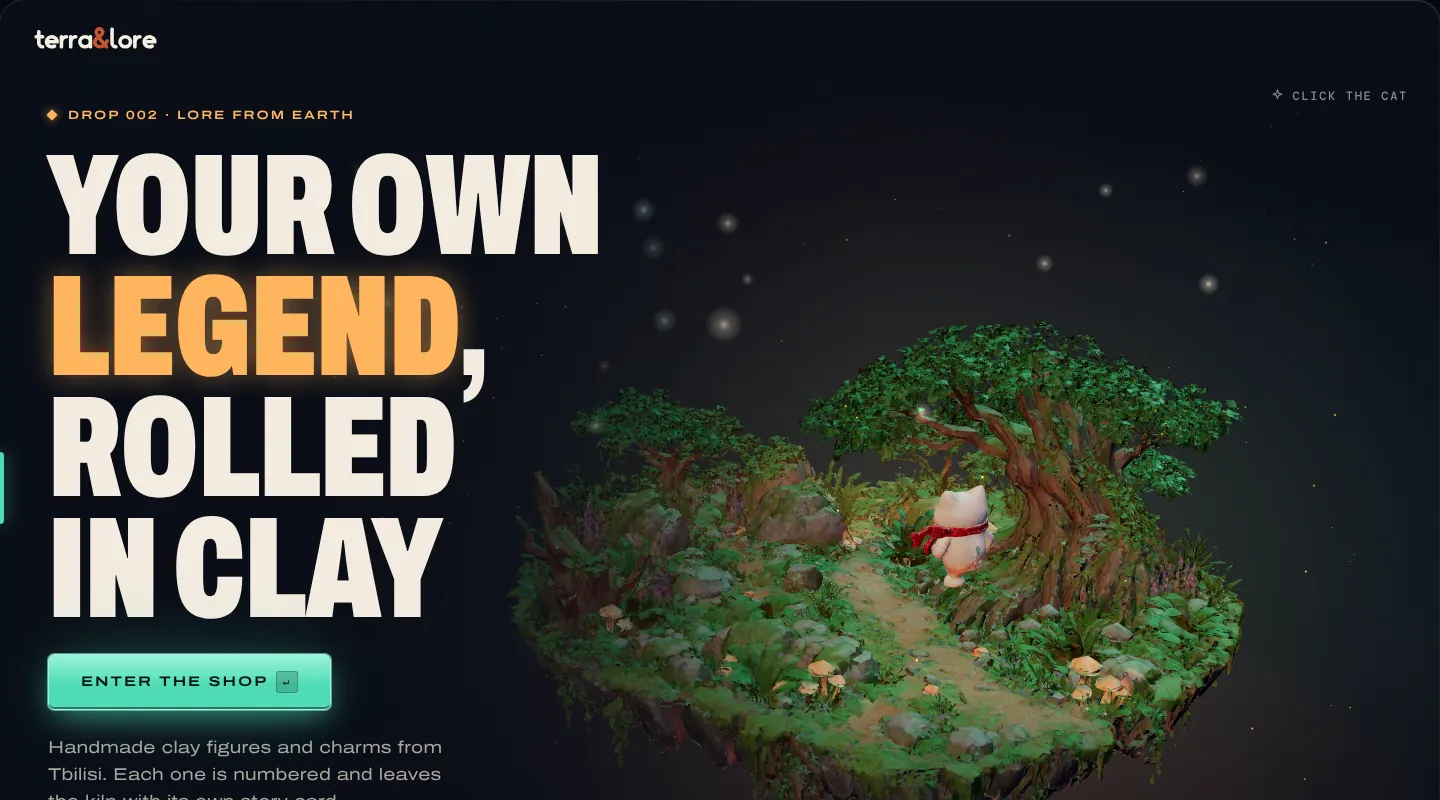
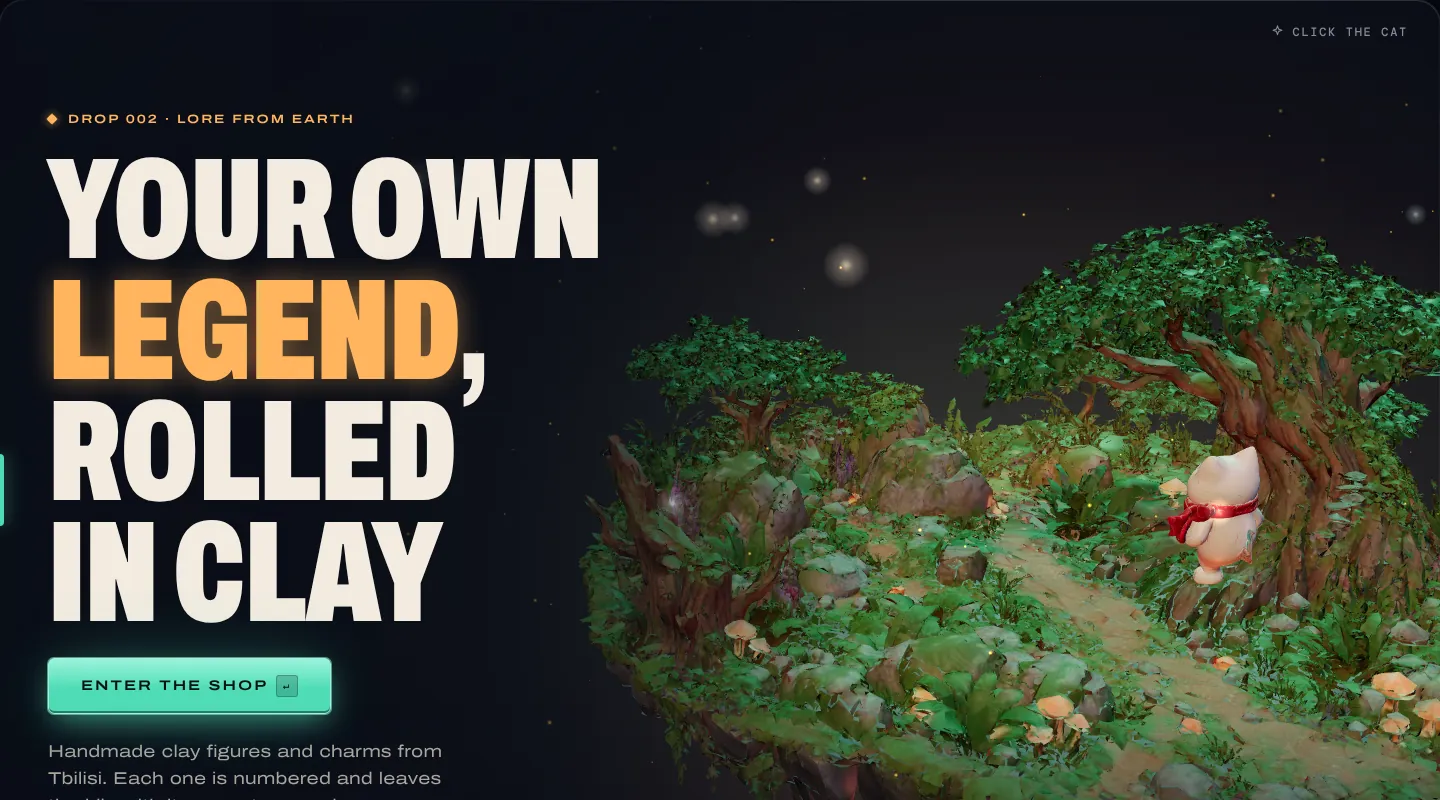
Hero: closer camera with the island bleeding off the frame; ground snapping ignores foliage
Claude-Session: https://claude.ai/code/session_01UTBPoVM5RH8U84VJFZRSbq

diff --git a/index.html b/index.html
@@ -227,9 +227,9 @@ textarea.tl-input { height: auto; min-height: 120px; padding: var(--space-3) var
 .tl-hero__scene.has-actor .tl-hero__poster { opacity: 0; }
 .tl-hero__scene.is-static .tl-hero__poster { opacity: 1; }
 .tl-hero__shade { position: absolute; inset: 0; z-index: 1; pointer-events: none; background: linear-gradient(90deg, rgba(10,14,23,.92) 0%, rgba(10,14,23,.7) 34%, rgba(10,14,23,0) 60%), linear-gradient(180deg, rgba(10,14,23,.5), transparent 25%, transparent 70%, rgba(10,14,23,.85)); }
-.tl-hero__top { position: relative; z-index: 2; display: flex; justify-content: space-between; align-items: center; height: var(--header-h); padding: 0 var(--space-6); }
+.tl-hero__top { position: relative; z-index: 2; display: flex; justify-content: flex-end; align-items: center; height: var(--space-8); padding: 0 var(--space-6); }
 .tl-hero__top img { height: 26px; }
-.tl-hero__body { position: relative; z-index: 2; display: grid; grid-template-columns: minmax(0, 1.05fr) minmax(0, 1fr); align-items: center; gap: var(--space-6); padding: var(--space-6) var(--space-7) var(--space-10); min-height: 520px; }
+.tl-hero__body { position: relative; z-index: 2; display: grid; grid-template-columns: minmax(0, 1.05fr) minmax(0, 1fr); align-items: center; gap: var(--space-6); padding: var(--space-7) var(--space-7) var(--space-10); min-height: 560px; }
 .tl-hero__copy { display: flex; flex-direction: column; gap: var(--space-5); animation: tl-rise var(--dur-epic) var(--ease-out) both; }
 .tl-hero__title { margin: 0; font: 900 clamp(64px, 9vw, 150px)/.84 var(--font-display); letter-spacing: -.01em; text-transform: uppercase; text-wrap: balance; max-width: 9ch; }
 .tl-hero__title em { font-style: normal; color: var(--ember); text-shadow: 0 0 28px rgba(255,180,94,.45); }
@@ -238,7 +238,7 @@ textarea.tl-input { height: auto; min-height: 120px; padding: var(--space-3) var
 .tl-hero__foot { position: absolute; z-index: 2; left: var(--space-6); right: var(--space-6); bottom: var(--space-5); display: flex; justify-content: space-between; align-items: flex-end; gap: var(--space-4); pointer-events: none; }
 .tl-hero__foot > * { pointer-events: auto; }
 .tl-hero__marker { position: absolute; left: 0; top: 46%; width: 4px; height: 72px; border-radius: 0 4px 4px 0; background: var(--jade); box-shadow: 0 0 18px rgba(79,220,182,.8); z-index: 2; }
-.tl-hero__hint { position: absolute; z-index: 2; right: var(--space-6); top: calc(var(--header-h) + var(--space-3)); display: inline-flex; align-items: center; gap: var(--space-2); font: 500 12px/1 var(--font-mono); letter-spacing: .14em; text-transform: uppercase; color: var(--bone-faint); }
+.tl-hero__hint { position: absolute; z-index: 2; right: var(--space-6); top: var(--space-5); display: inline-flex; align-items: center; gap: var(--space-2); font: 500 12px/1 var(--font-mono); letter-spacing: .14em; text-transform: uppercase; color: var(--bone-faint); }
 @media (max-width: 900px) {
   .tl-hero { min-height: 0; border-radius: var(--radius-l); }
   .tl-hero__shade { background: linear-gradient(180deg, rgba(10,14,23,.3), transparent 20%, transparent 48%, rgba(10,14,23,.92) 72%); }
@@ -530,7 +530,7 @@ window.TL_HERO = {
     jumpAt: [5],
     hopAt: -1,
     speed: 1.5,
-    camera: { position: [0.5, 4.8, 13.4], target: [0, 0.3, 0], fov: 32 }
+    camera: { position: [0.4, 4.1, 9.6], target: [0, 0.2, 0], fov: 32 }
   }
 };
 
@@ -1060,7 +1060,7 @@ window.TerraLoreRealm = window.TerraLoreRealm || {};
       R.setSize(w, h, false); cam.aspect = w / h;
       var wide = cam.aspect > 1.2;
       // desktop: island sits in the right 55%; phone: centred, camera pulled back
-      layout.shift = wide ? Math.min(3.6, w / 400) : 0;
+      layout.shift = wide ? Math.min(4.6, w / 320) : 0;
       layout.dist = wide ? 1 : Math.max(1.25, 0.72 / cam.aspect);
       layout.lift = wide ? 0 : 3.5;
       cam.updateProjectionMatrix();
@@ -1088,7 +1088,7 @@ window.TerraLoreRealm = window.TerraLoreRealm || {};
       world.position.set(layout.shift, 0, 0);
       world.rotation.y = Math.sin(t * 0.08) * 0.04;
       cam.position.set(camPos.x + pointer.x * 0.9, camPos.y - pointer.y * 0.5, camPos.z * layout.dist);
-      cam.lookAt(camTarget.x + layout.shift * 0.55, camTarget.y - layout.lift, camTarget.z);
+      cam.lookAt(camTarget.x + layout.shift * 0.5, camTarget.y - layout.lift, camTarget.z);
       // island breathes
       if (island) { island.position.y = Math.sin(t * 0.6) * 0.06; island.rotation.z = Math.sin(t * 0.35) * 0.008; if (island.userData.lights) island.userData.lights.forEach(function (L, i) { L.intensity = 1.2 + Math.sin(t * 3 + i * 1.7) * 0.25 + Math.sin(t * 7.1 + i) * 0.12; }); }
       // actor along the path
@@ -1216,7 +1216,7 @@ window.TerraLoreRealm = window.TerraLoreRealm || {};
     var featured = NS.items.filter(function (i) { return i.drop === '002'; });
     return '<section class="tl-sky tl-hero-wrap"><div class="tl-hero" id="hero">' +
       '<div class="tl-hero__scene" id="hero-scene"><img class="tl-hero__poster" src="img/hero-poster.webp" alt="" width="1600" height="900"></div><div class="tl-hero__shade"></div><span class="tl-hero__marker" aria-hidden="true"></span>' +
-      '<div class="tl-hero__top"><img src="' + NS.asset('logo-wordmark-reverse') + '" alt="Terra &amp; Lore"><span class="tl-hero__hint" id="hero-hint">' + icon('sparkle') + ' Click the cat</span></div>' +
+      '<div class="tl-hero__top"><span class="tl-hero__hint" id="hero-hint">' + icon('sparkle') + ' Click the cat</span></div>' +
       '<div class="tl-hero__body"><div class="tl-hero__copy"><span class="tl-eyebrow">Drop 002 · Lore from earth</span><h1 class="tl-hero__title">Your own <em>legend</em>, rolled in clay</h1><div class="tl-hero__cta"><a class="tl-btn tl-btn--primary tl-btn--lg" href="#shop">Enter the shop ' + key('↵') + '</a><p class="tl-hero__lead">Handmade clay figures and charms from Tbilisi. Each one is numbered and leaves the kiln with its own story card.</p></div><div id="hero-dialog"></div></div><div></div></div>' +
       '<div class="tl-hero__foot">' + NS.scrollBadge() + '<div class="tl-timer" aria-label="Next drop countdown"><span class="tl-eyebrow">Next drop · 003 · Winter lore</span><div class="tl-timer__digits" id="drop-timer">' + ['d', 'h', 'm', 's'].map(function (u, i) { return (i ? '<span class="tl-timer__sep">:</span>' : '') + '<span class="tl-timer__unit"><span data-unit="' + u + '">00</span><small>' + { d: 'days', h: 'hrs', m: 'min', s: 'sec' }[u] + '</small></span>'; }).join('') + '</div></div></div>' +
       '</div></section>' +

diff --git a/components.css b/components.css
@@ -205,9 +205,9 @@ textarea.tl-input { height: auto; min-height: 120px; padding: var(--space-3) var
 .tl-hero__scene.has-actor .tl-hero__poster { opacity: 0; }
 .tl-hero__scene.is-static .tl-hero__poster { opacity: 1; }
 .tl-hero__shade { position: absolute; inset: 0; z-index: 1; pointer-events: none; background: linear-gradient(90deg, rgba(10,14,23,.92) 0%, rgba(10,14,23,.7) 34%, rgba(10,14,23,0) 60%), linear-gradient(180deg, rgba(10,14,23,.5), transparent 25%, transparent 70%, rgba(10,14,23,.85)); }
-.tl-hero__top { position: relative; z-index: 2; display: flex; justify-content: space-between; align-items: center; height: var(--header-h); padding: 0 var(--space-6); }
+.tl-hero__top { position: relative; z-index: 2; display: flex; justify-content: flex-end; align-items: center; height: var(--space-8); padding: 0 var(--space-6); }
 .tl-hero__top img { height: 26px; }
-.tl-hero__body { position: relative; z-index: 2; display: grid; grid-template-columns: minmax(0, 1.05fr) minmax(0, 1fr); align-items: center; gap: var(--space-6); padding: var(--space-6) var(--space-7) var(--space-10); min-height: 520px; }
+.tl-hero__body { position: relative; z-index: 2; display: grid; grid-template-columns: minmax(0, 1.05fr) minmax(0, 1fr); align-items: center; gap: var(--space-6); padding: var(--space-7) var(--space-7) var(--space-10); min-height: 560px; }
 .tl-hero__copy { display: flex; flex-direction: column; gap: var(--space-5); animation: tl-rise var(--dur-epic) var(--ease-out) both; }
 .tl-hero__title { margin: 0; font: 900 clamp(64px, 9vw, 150px)/.84 var(--font-display); letter-spacing: -.01em; text-transform: uppercase; text-wrap: balance; max-width: 9ch; }
 .tl-hero__title em { font-style: normal; color: var(--ember); text-shadow: 0 0 28px rgba(255,180,94,.45); }
@@ -216,7 +216,7 @@ textarea.tl-input { height: auto; min-height: 120px; padding: var(--space-3) var
 .tl-hero__foot { position: absolute; z-index: 2; left: var(--space-6); right: var(--space-6); bottom: var(--space-5); display: flex; justify-content: space-between; align-items: flex-end; gap: var(--space-4); pointer-events: none; }
 .tl-hero__foot > * { pointer-events: auto; }
 .tl-hero__marker { position: absolute; left: 0; top: 46%; width: 4px; height: 72px; border-radius: 0 4px 4px 0; background: var(--jade); box-shadow: 0 0 18px rgba(79,220,182,.8); z-index: 2; }
-.tl-hero__hint { position: absolute; z-index: 2; right: var(--space-6); top: calc(var(--header-h) + var(--space-3)); display: inline-flex; align-items: center; gap: var(--space-2); font: 500 12px/1 var(--font-mono); letter-spacing: .14em; text-transform: uppercase; color: var(--bone-faint); }
+.tl-hero__hint { position: absolute; z-index: 2; right: var(--space-6); top: var(--space-5); display: inline-flex; align-items: center; gap: var(--space-2); font: 500 12px/1 var(--font-mono); letter-spacing: .14em; text-transform: uppercase; color: var(--bone-faint); }
 @media (max-width: 900px) {
   .tl-hero { min-height: 0; border-radius: var(--radius-l); }
   .tl-hero__shade { background: linear-gradient(180deg, rgba(10,14,23,.3), transparent 20%, transparent 48%, rgba(10,14,23,.92) 72%); }

diff --git a/page.js b/page.js
@@ -28,7 +28,7 @@
     var featured = NS.items.filter(function (i) { return i.drop === '002'; });
     return '<section class="tl-sky tl-hero-wrap"><div class="tl-hero" id="hero">' +
       '<div class="tl-hero__scene" id="hero-scene"><img class="tl-hero__poster" src="img/hero-poster.webp" alt="" width="1600" height="900"></div><div class="tl-hero__shade"></div><span class="tl-hero__marker" aria-hidden="true"></span>' +
-      '<div class="tl-hero__top"><img src="' + NS.asset('logo-wordmark-reverse') + '" alt="Terra &amp; Lore"><span class="tl-hero__hint" id="hero-hint">' + icon('sparkle') + ' Click the cat</span></div>' +
+      '<div class="tl-hero__top"><span class="tl-hero__hint" id="hero-hint">' + icon('sparkle') + ' Click the cat</span></div>' +
       '<div class="tl-hero__body"><div class="tl-hero__copy"><span class="tl-eyebrow">Drop 002 · Lore from earth</span><h1 class="tl-hero__title">Your own <em>legend</em>, rolled in clay</h1><div class="tl-hero__cta"><a class="tl-btn tl-btn--primary tl-btn--lg" href="#shop">Enter the shop ' + key('↵') + '</a><p class="tl-hero__lead">Handmade clay figures and charms from Tbilisi. Each one is numbered and leaves the kiln with its own story card.</p></div><div id="hero-dialog"></div></div><div></div></div>' +
       '<div class="tl-hero__foot">' + NS.scrollBadge() + '<div class="tl-timer" aria-label="Next drop countdown"><span class="tl-eyebrow">Next drop · 003 · Winter lore</span><div class="tl-timer__digits" id="drop-timer">' + ['d', 'h', 'm', 's'].map(function (u, i) { return (i ? '<span class="tl-timer__sep">:</span>' : '') + '<span class="tl-timer__unit"><span data-unit="' + u + '">00</span><small>' + { d: 'days', h: 'hrs', m: 'min', s: 'sec' }[u] + '</small></span>'; }).join('') + '</div></div></div>' +
       '</div></section>' +

diff --git a/hero3d.js b/hero3d.js
@@ -262,7 +262,7 @@
       R.setSize(w, h, false); cam.aspect = w / h;
       var wide = cam.aspect > 1.2;
       // desktop: island sits in the right 55%; phone: centred, camera pulled back
-      layout.shift = wide ? Math.min(3.6, w / 400) : 0;
+      layout.shift = wide ? Math.min(4.6, w / 320) : 0;
       layout.dist = wide ? 1 : Math.max(1.25, 0.72 / cam.aspect);
       layout.lift = wide ? 0 : 3.5;
       cam.updateProjectionMatrix();
@@ -290,7 +290,7 @@
       world.position.set(layout.shift, 0, 0);
       world.rotation.y = Math.sin(t * 0.08) * 0.04;
       cam.position.set(camPos.x + pointer.x * 0.9, camPos.y - pointer.y * 0.5, camPos.z * layout.dist);
-      cam.lookAt(camTarget.x + layout.shift * 0.55, camTarget.y - layout.lift, camTarget.z);
+      cam.lookAt(camTarget.x + layout.shift * 0.5, camTarget.y - layout.lift, camTarget.z);
       // island breathes
       if (island) { island.position.y = Math.sin(t * 0.6) * 0.06; island.rotation.z = Math.sin(t * 0.35) * 0.008; if (island.userData.lights) island.userData.lights.forEach(function (L, i) { L.intensity = 1.2 + Math.sin(t * 3 + i * 1.7) * 0.25 + Math.sin(t * 7.1 + i) * 0.12; }); }
       // actor along the path

diff --git a/hero-config.js b/hero-config.js
@@ -7,6 +7,6 @@ window.TL_HERO = {
     jumpAt: [5],
     hopAt: -1,
     speed: 1.5,
-    camera: { position: [0.5, 4.8, 13.4], target: [0, 0.3, 0], fov: 32 }
+    camera: { position: [0.4, 4.1, 9.6], target: [0, 0.2, 0], fov: 32 }
   }
 };
